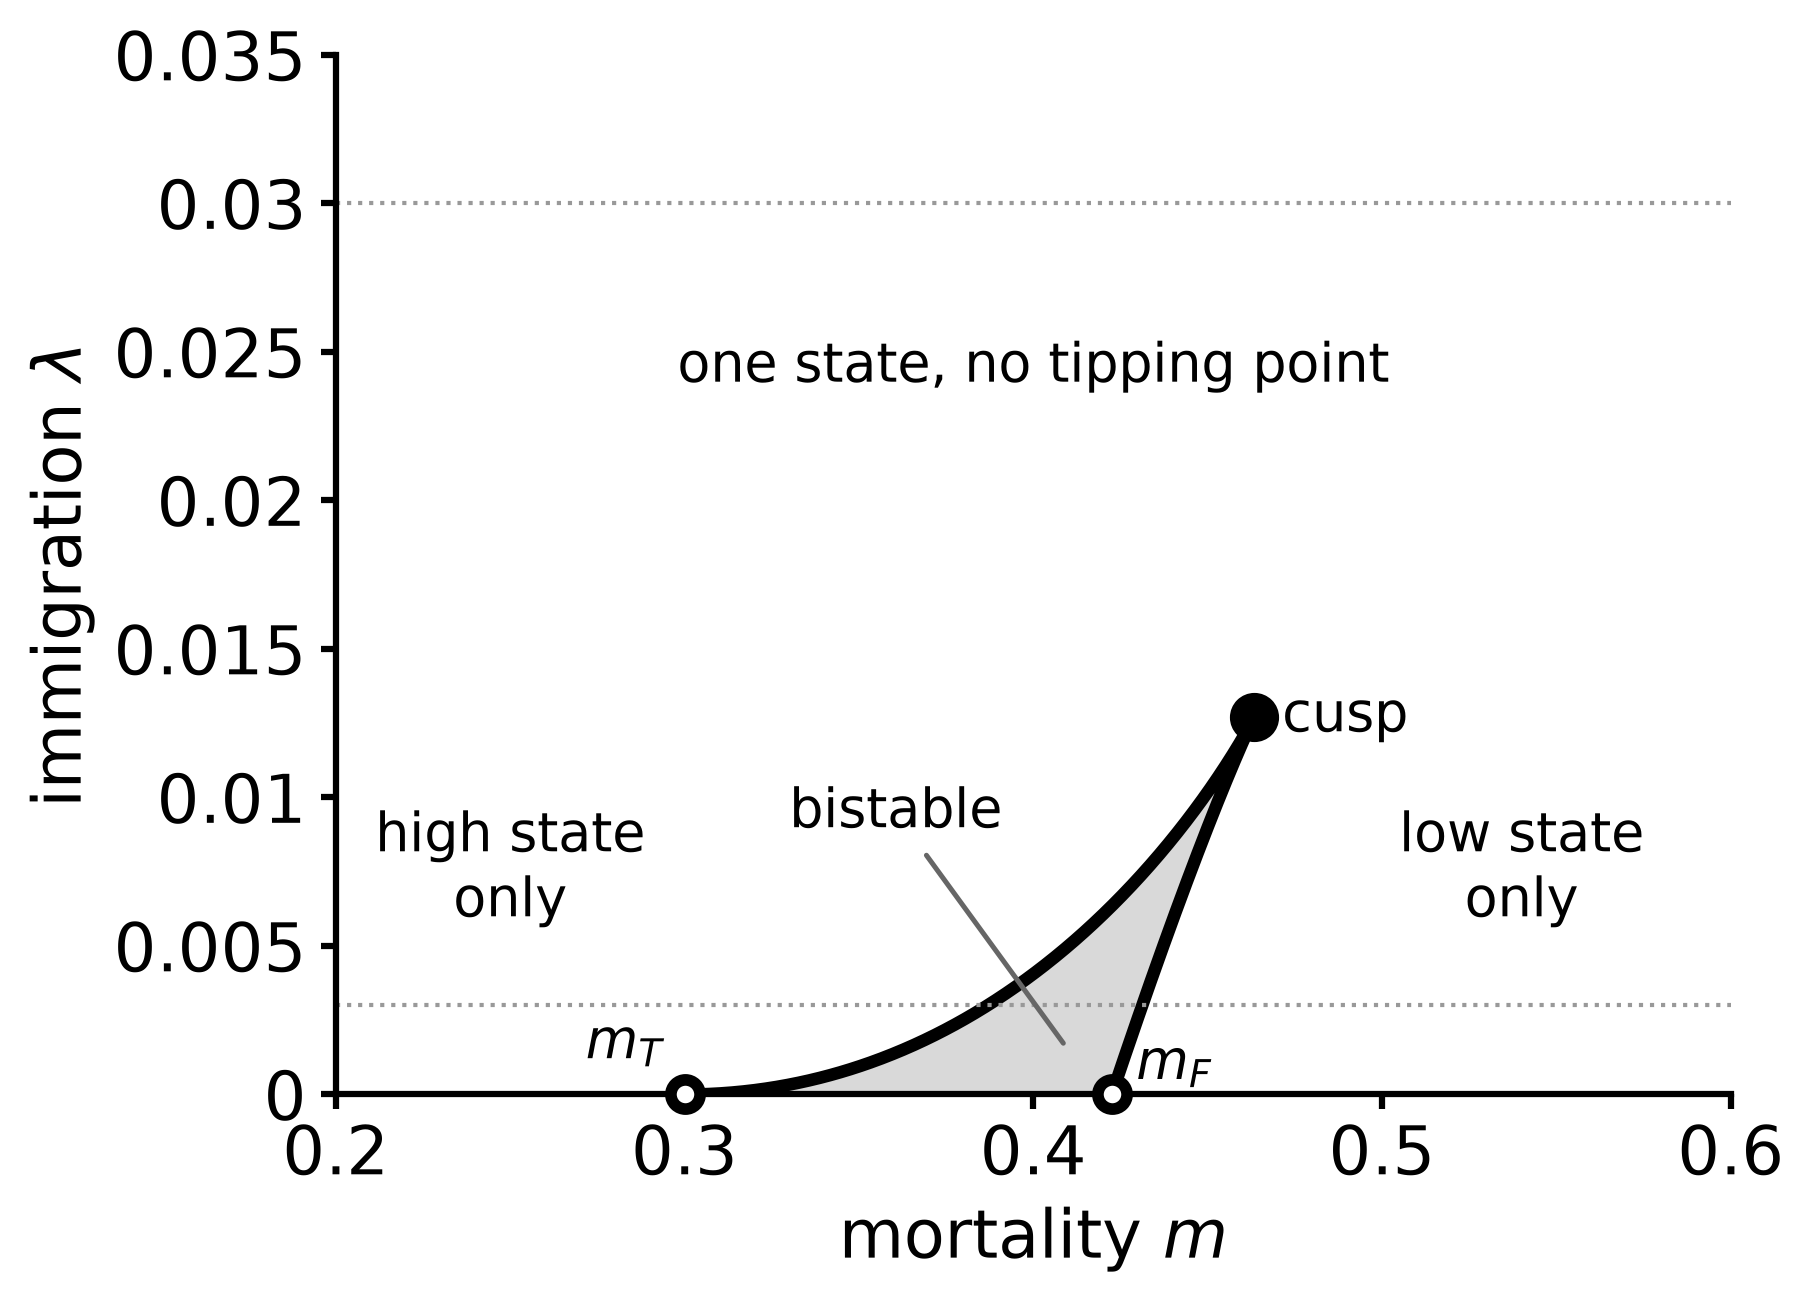
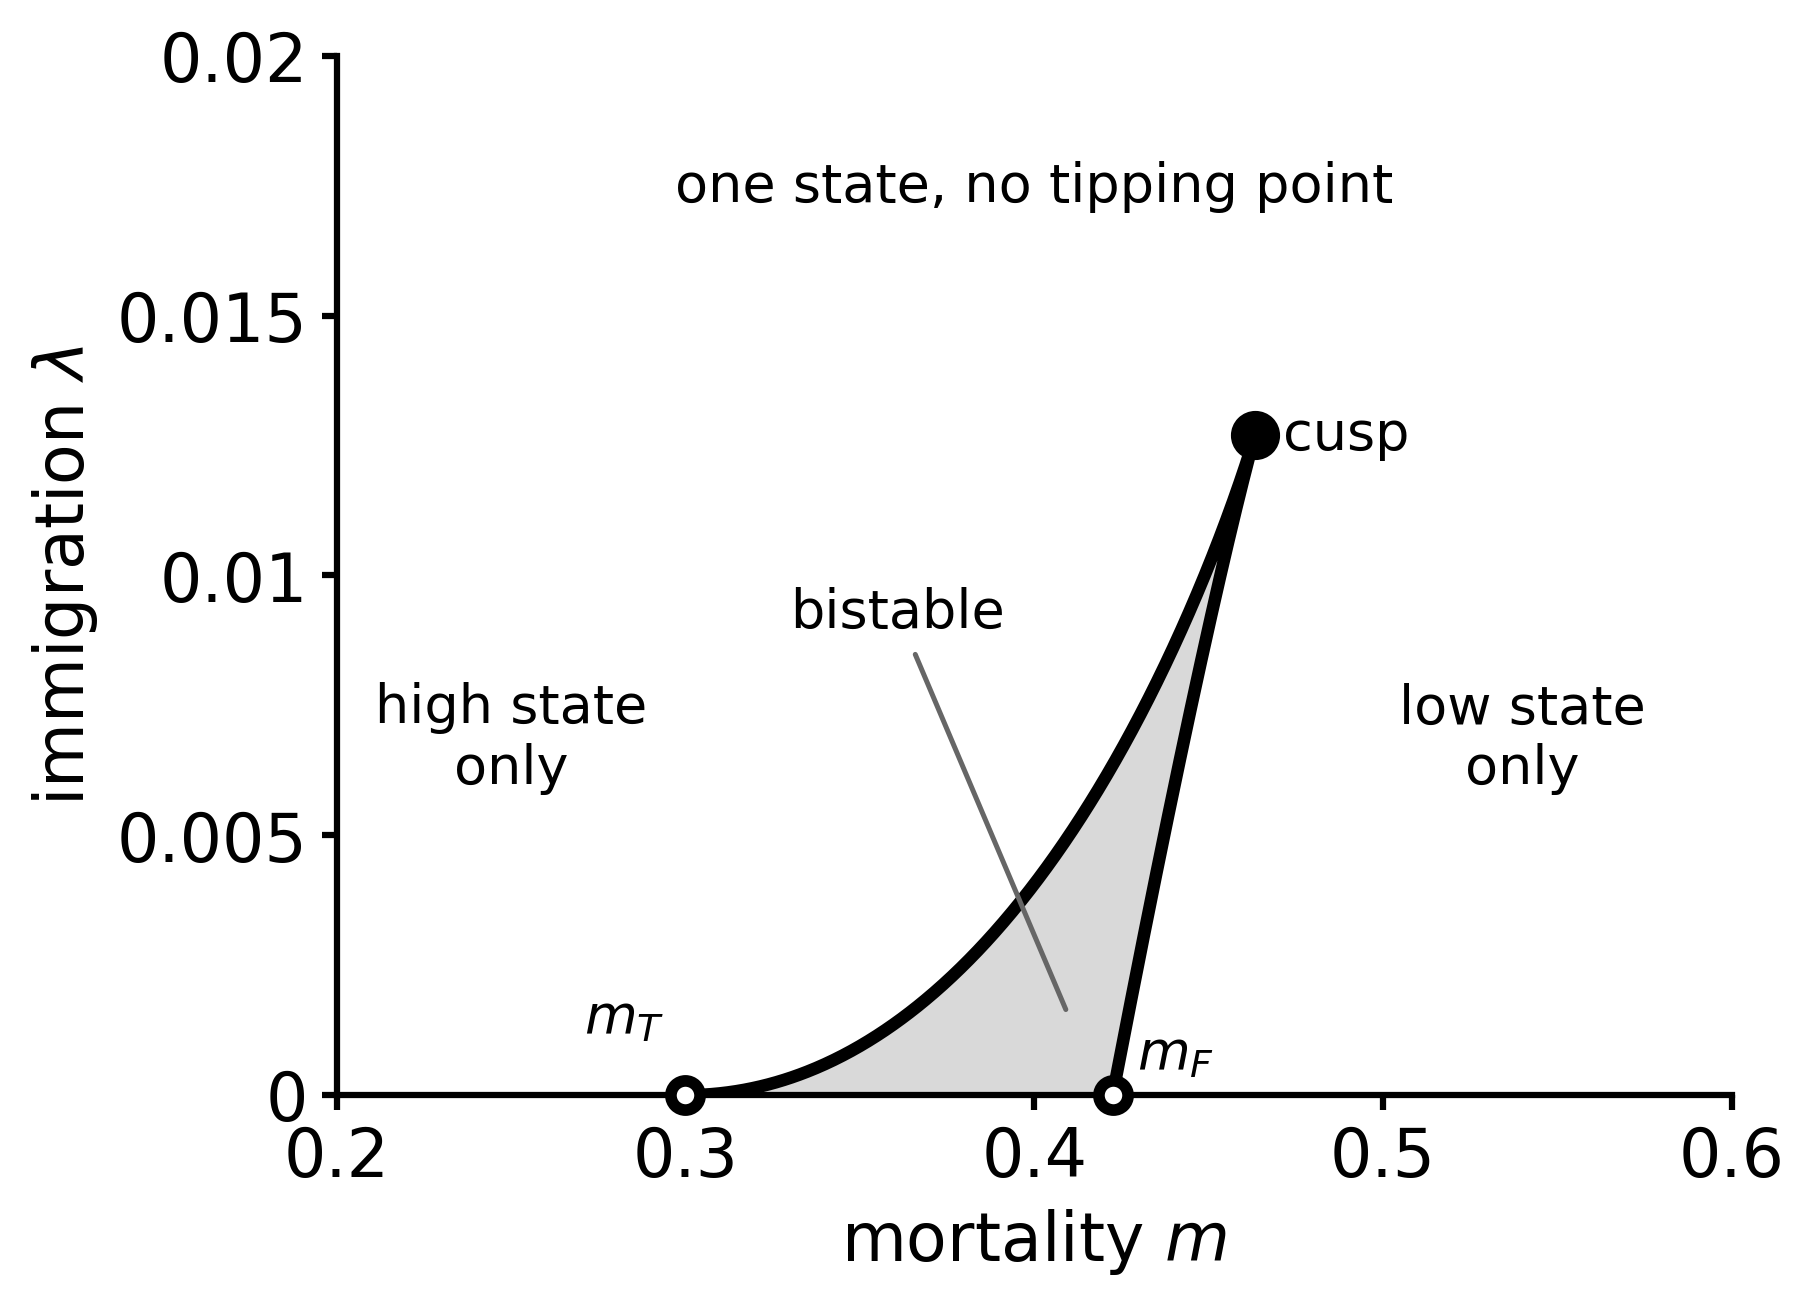
ecoevo2026: L5 figures, shorter captions and readouts
Phase figure with immigration: note under the panels removed, readout reduced to
the regime and the fixed points (2 digits). Cusp-potential figure: note removed.
Fold-line figure: lambda axis to 0.02, no ramp lines, caption cut to one sentence.

diff --git a/notes/ecoevo2026/material/l5-immigration-phase.html b/notes/ecoevo2026/material/l5-immigration-phase.html
@@ -34,8 +34,11 @@ body { font: 15px/1.5 -apple-system, BlinkMacSystemFont, "Segoe UI", Roboto, "He
 .controls label { font-weight: 600; }
 .controls input[type=range] { accent-color: var(--accent); min-width: 140px; }
 .controls output { font-variant-numeric: tabular-nums; min-width: 3.6em; text-align: right; }
-.readout { color: var(--muted); font-size: .9rem; min-height: 4.4em; margin-bottom: .4rem; font-variant-numeric: tabular-nums; }
+.readout { color: var(--muted); font-size: .9rem; min-height: 1.6em; margin-bottom: .4rem; font-variant-numeric: tabular-nums; }
 .readout b { color: var(--fg); font-weight: 600; }
+/* u^*_+ : superscript and subscript stacked */
+.readout sup, .readout sub { font-size: .7em; line-height: 0; }
+.readout sub.ss { margin-left: -.42em; }
 .grid { display: grid; grid-template-columns: repeat(auto-fit, minmax(185px, 1fr)); gap: 10px 14px; }
 figure { margin: 0; }
 figcaption { font-size: .85rem; color: var(--muted); text-align: center; margin-top: 2px; }
@@ -60,7 +63,6 @@ svg .guide { stroke: var(--muted); stroke-width: 1; stroke-dasharray: 2 3; }
 svg .hover-pt { fill: var(--fg); stroke: var(--bg); stroke-width: 2; }
 svg .tip { fill: var(--fg); font-size: 12px; }
 svg .region { font-size: 11px; }
-.note { font-size: .82rem; color: var(--muted); margin-top: .4rem; }
 </style>
 </head>
 <body>
@@ -68,10 +70,10 @@ svg .region { font-size: 11px; }
   <div class="controls">
     <label for="mort">Mortality <i>m</i></label>
     <input type="range" id="mort" min="0.25" max="0.55" step="0.001" value="0.41">
-    <output id="mval" for="mort">0.410</output>
+    <output id="mval" for="mort">0.41</output>
     <label for="imm">Immigration <i>λ</i></label>
     <input type="range" id="imm" min="0" max="0.02" step="0.0001" value="0.003">
-    <output id="lval" for="imm">0.0030</output>
+    <output id="lval" for="imm">0.003</output>
   </div>
   <div class="readout" id="readout" aria-live="polite"></div>
   <div class="grid">
@@ -82,9 +84,6 @@ svg .region { font-size: 11px; }
     <figure><svg id="p3" role="img" aria-label="du/dtau against u"></svg>
       <figcaption>Growth rate d<i>u</i>/d<i>τ</i></figcaption></figure>
   </div>
-  <div class="note"><i>α</i> = −0.3 (weak Allee effect), <i>s</i> = 1 + <i>α</i>. Units as in the mortality figure; <i>λ</i> = <i>L</i>/(<i>rN</i><sub>max</sub><sup>2</sup>).
-    First panel: fold lines meeting at the cusp (<i>m</i><sub>c</sub>, <i>λ</i><sub>c</sub>) = (0.463, 0.0127); blue region: bistable.
-    Other panels: filled dot, stable fixed point; open dot, unstable; small black dots, the minimum and the maximum of <i>G</i>. Dashed grey: no immigration (<i>λ</i> = 0) at the same <i>m</i>.</div>
 </div>
 <script>
 "use strict";
@@ -157,6 +156,7 @@ function el(tag, attrs, parent) {
   return e;
 }
 function fmt(v, n = 3) { return (Math.abs(v) < 1e-9 ? 0 : v).toFixed(n); }
+function trim(v, n) { return (+v.toFixed(n)).toString(); }      // 0.410 -> 0.41, 0.0030 -> 0.003
 
 // text with subscripts: "max" always, and "_X" for a one-letter subscript (m_T, m_F)
 function label(parent, text, attrs) {
@@ -306,28 +306,22 @@ function draw() {
   for (const pt of fps) dot("p3", pt.u, 0, pt.stable ? "stable-pt" : "unstable-pt", z.svg);
   hoverLayer("p3", x => f(x, m, l), "du/dτ");
 
-  // readout
-  mval.textContent = m.toFixed(3);
-  lval.textContent = l.toFixed(4);
-  const sub = (b, s) => `${b}<sub>${s}</sub>`;
+  // readout: the regime and the fixed points, 2 digits. u*_+ high state, u*_- threshold (as in the
+  // mortality section), u*_0 low state (the refuge; extinction at lambda = 0)
+  mval.textContent = trim(m, 3);
+  lval.textContent = trim(l, 4);
+  const U = (s, v) => `<b><i>u</i><sup>*</sup><sub class="ss">${s}</sub> = ${v < 1e-9 ? "0" : fmt(v, 2)}</b>`;
   const stable = fps.filter(pt => pt.stable);
   let txt;
   if (stable.length >= 2) {
     const [lo, th, hi] = fps;
-    const low = l === 0 ? `extinction` : `a refuge at <b>u = ${fmt(lo.u)}</b>`;
-    txt = `<b>Bistable</b>: ${low}, or the high state at <b>u = ${fmt(hi.u)}</b>. The threshold is <b>u = ${fmt(th.u)}</b>: below it the population ${l === 0 ? "goes extinct" : "ends in the refuge"}. `;
+    txt = `<b>Bistable</b>: ${U("0", lo.u)}, ${U("+", hi.u)} (threshold ${U("−", th.u)})`;
   } else {
     const u = stable.length ? stable[0].u : fps[fps.length - 1].u;
-    if (l === 0 && u < 1e-9) txt = `<b>Extinction</b> is the only stable state. `;
-    else if (l === 0) txt = `<b>Only the high state</b> is stable, <b>u = ${fmt(u)}</b>; extinction is unstable. `;
-    else if (l >= LC) txt = `<b>One state, no tipping point</b> (λ ≥ ${sub("λ", "c")} = ${fmt(LC, 4)}): <b>u = ${fmt(u)}</b>. Changing m moves it smoothly and reversibly. `;
-    else if (u > UCUSP) txt = `<b>High state only</b>: <b>u = ${fmt(u)}</b>. `;
-    else txt = `<b>Low state only</b>: the refuge, <b>u = ${fmt(u)}</b>, a sink population kept alive by immigration. `;
+    if (l >= LC) txt = `<b>One state</b>: <b><i>u</i>* = ${fmt(u, 2)}</b>`;
+    else if (u > UCUSP) txt = `<b>High state only</b>: ${U("+", u)}`;
+    else txt = `<b>Low state only</b>: ${U("0", u)}`;
   }
-  const fo = foldsAt(l);
-  if (l === 0) txt += `At λ = 0: transcritical at ${sub("m", "T")} = ${fmt(MT, 2)}, fold at ${sub("m", "F")} = ${fmt(MF, 4)}.`;
-  else if (fo) txt += `At this λ: recovery at the lower fold, m = <b>${fmt(fo.low)}</b>; collapse at the upper fold, m = <b>${fmt(fo.up)}</b>. Hysteresis width <b>${fmt(fo.up - fo.low)}</b>.`;
-  else txt += `Above ${sub("λ", "c")} there are no folds.`;
   readout.innerHTML = txt;
   postHeight();
 }

diff --git a/notes/ecoevo2026/l5.html b/notes/ecoevo2026/l5.html
@@ -81,7 +81,8 @@ footer.site { border-top: 1px solid var(--rule); padding-top: 1rem; padding-bott
 footer.site a { color: var(--muted); }
 </style>
 <script>window.MathJax = { output: { displayOverflow: 'linebreak' } };</script>
-<script src="https://cdn.jsdelivr.net/npm/mathjax@4/tex-chtml.js"
+<script defer=""
+src="https://cdn.jsdelivr.net/npm/mathjax@4/tex-chtml.js"
 type="text/javascript"></script>
 </head>
 <body>
@@ -124,23 +125,23 @@ There are three cases:</p>
 <col style="width: 65%" />
 </colgroup>
 <thead>
-<tr class="header">
+<tr>
 <th>per-capita rate <span class="math inline">\(g(N)\)</span></th>
 <th>name</th>
 </tr>
 </thead>
 <tbody>
-<tr class="odd">
+<tr>
 <td>decreasing</td>
 <td>no Allee effect (logistic)</td>
 </tr>
-<tr class="even">
+<tr>
 <td>increasing at low <span class="math inline">\(N\)</span>, <span
 class="math inline">\(g(0)&gt;0\)</span></td>
 <td><em>weak</em> Allee effect (same fixed-point behavior as the
 logistic)</td>
 </tr>
-<tr class="odd">
+<tr>
 <td>increasing at low <span class="math inline">\(N\)</span>, <span
 class="math inline">\(g(0)&lt;0\)</span></td>
 <td><em>strong</em> Allee effect: small populations decline</td>
@@ -188,7 +189,7 @@ class="math inline">\(g&#39;(0)=1+\alpha\)</span>, it covers all three
 cases:</p>
 <table>
 <thead>
-<tr class="header">
+<tr>
 <th><span class="math inline">\(\alpha\)</span></th>
 <th><span class="math inline">\(g(0)\)</span></th>
 <th><span class="math inline">\(g&#39;(0)\)</span></th>
@@ -196,19 +197,19 @@ cases:</p>
 </tr>
 </thead>
 <tbody>
-<tr class="odd">
+<tr>
 <td><span class="math inline">\(\alpha&lt;-1\)</span></td>
 <td><span class="math inline">\(&gt;0\)</span></td>
 <td><span class="math inline">\(&lt;0\)</span></td>
 <td>no Allee effect</td>
 </tr>
-<tr class="even">
+<tr>
 <td><span class="math inline">\(-1&lt;\alpha&lt;0\)</span></td>
 <td><span class="math inline">\(&gt;0\)</span></td>
 <td><span class="math inline">\(&gt;0\)</span></td>
 <td>weak</td>
 </tr>
-<tr class="odd">
+<tr>
 <td><span class="math inline">\(0&lt;\alpha&lt;1\)</span></td>
 <td><span class="math inline">\(&lt;0\)</span></td>
 <td><span class="math inline">\(&gt;0\)</span></td>
@@ -451,7 +452,7 @@ starting below it go extinct.</p>
 <col style="width: 9%" />
 </colgroup>
 <thead>
-<tr class="header">
+<tr>
 <th>fixed point</th>
 <th>value</th>
 <th>is feasible (<span class="math inline">\(u^* \geq 0\)</span>)
@@ -461,14 +462,14 @@ when</th>
 </tr>
 </thead>
 <tbody>
-<tr class="odd">
+<tr>
 <td>extinction</td>
 <td><span class="math inline">\(0\)</span></td>
 <td>always</td>
 <td><span class="math inline">\(m_T-m\)</span></td>
 <td>if <span class="math inline">\(m&gt;m_T\)</span></td>
 </tr>
-<tr class="even">
+<tr>
 <td><span class="math inline">\(u_+\)</span></td>
 <td><span class="math inline">\(u_c+\sqrt{m_F-m}\)</span></td>
 <td><span class="math inline">\(m&lt;m_F\)</span> if <span
@@ -478,7 +479,7 @@ class="math inline">\(\alpha&lt;-1\)</span></td>
 <td><span class="math inline">\(-2u_+\sqrt{m_F-m}\)</span></td>
 <td>always</td>
 </tr>
-<tr class="odd">
+<tr>
 <td><span class="math inline">\(u_-\)</span> (threshold)</td>
 <td><span class="math inline">\(u_c-\sqrt{m_F-m}\)</span></td>
 <td><span class="math inline">\(m_T&lt;m&lt;m_F\)</span> and <span
@@ -572,24 +573,24 @@ class="math inline">\(u_-\)</span>.</li>
 <col style="width: 33%" />
 </colgroup>
 <thead>
-<tr class="header">
+<tr>
 <th></th>
 <th>logistic + <span class="math inline">\(\delta\)</span></th>
 <th>Allee + <span class="math inline">\(\delta\)</span></th>
 </tr>
 </thead>
 <tbody>
-<tr class="odd">
+<tr>
 <td>bifurcation</td>
 <td>transcritical</td>
 <td>fold (plus a transcritical if weak)</td>
 </tr>
-<tr class="even">
+<tr>
 <td>density at the threshold</td>
 <td><span class="math inline">\(\to 0\)</span></td>
 <td><span class="math inline">\(u_c&gt;0\)</span>: a jump</td>
 </tr>
-<tr class="odd">
+<tr>
 <td>undoing it</td>
 <td>reduce <span class="math inline">\(\delta\)</span> just below <span
 class="math inline">\(\delta_c\)</span></td>
@@ -798,15 +799,7 @@ same slope <span class="math inline">\(2u_c/3\)</span>.</p>
 <p><span class="callout-title">Fold lines and the cusp</span></p>
 <p>The two fold lines in the <span
 class="math inline">\((m,\lambda)\)</span> plane, at <span
-class="math inline">\(\alpha=-0.3\)</span>. They start on the axis <span
-class="math inline">\(\lambda=0\)</span> at <span
-class="math inline">\(m_T=0.3\)</span> and <span
-class="math inline">\(m_F=0.4225\)</span> and meet at the cusp, <span
-class="math inline">\((m_c,\lambda_c)=(0.463,\,0.0127)\)</span>. Inside
-(grey) the population is bistable, between the refuge and the high
-state. The dotted lines are <span
-class="math inline">\(\lambda=0.003\)</span> and <span
-class="math inline">\(\lambda=0.03\)</span>.</p>
+class="math inline">\(\alpha=-0.3\)</span>.</p>
 <p><img src="material/l5-phase-m-lambda.png" /></p>
 </div>
 <p>The point <span class="math inline">\((m_c,\lambda_c)\)</span>, where

diff --git a/notes/ecoevo2026/material/l5-potential.html b/notes/ecoevo2026/material/l5-potential.html
@@ -54,7 +54,6 @@ svg .arrow { fill: var(--accent); }
 svg .bist { fill: var(--bist); }
 svg .guide { stroke: var(--muted); stroke-width: 1; stroke-dasharray: 2 3; }
 svg .region { font-size: 11px; }
-.note { font-size: .82rem; color: var(--muted); margin-top: .4rem; }
 </style>
 </head>
 <body>
@@ -76,9 +75,6 @@ svg .region { font-size: 11px; }
     <figure><svg id="p3" role="img" aria-label="dx/dtau against x"></svg>
       <figcaption>Flow d<i>x</i>/d<i>τ</i> = −<i>V</i>′(<i>x</i>)</figcaption></figure>
   </div>
-  <div class="note">Normal form of the cusp, d<i>x</i>/d<i>τ</i> = −<i>x</i><sup>3</sup> + <i>Jx</i> + <i>H</i>, with <i>V</i>(<i>x</i>) = <i>x</i><sup>4</sup>/4 − <i>Jx</i><sup>2</sup>/2 − <i>Hx</i>.
-    First panel: the fold lines <i>H</i> = ±2(<i>J</i>/3)<sup>3/2</sup> meeting at the cusp; blue region: two wells (bistable).
-    Other panels: filled dot, minimum of <i>V</i> (stable); open dot, maximum (unstable); black dot, a fold (minimum and maximum merging).</div>
 </div>
 <script>
 "use strict";

diff --git a/notes/ecoevo2026/l5.md b/notes/ecoevo2026/l5.md
@@ -333,7 +333,7 @@ The slope of a fold line in the $(m,\lambda)$ plane is the density at the fold, 
 Joining the dots we obtain
 
 > [!figure] Fold lines and the cusp
-> The two fold lines in the $(m,\lambda)$ plane, at $\alpha=-0.3$. They start on the axis $\lambda=0$ at $m_T=0.3$ and $m_F=0.4225$ and meet at the cusp, $(m_c,\lambda_c)=(0.463,\,0.0127)$. Inside (grey) the population is bistable, between the refuge and the high state. The dotted lines are $\lambda=0.003$ and $\lambda=0.03$.
+> The two fold lines in the $(m,\lambda)$ plane, at $\alpha=-0.3$.
 >
 > ![](material/l5-phase-m-lambda.png)
 
